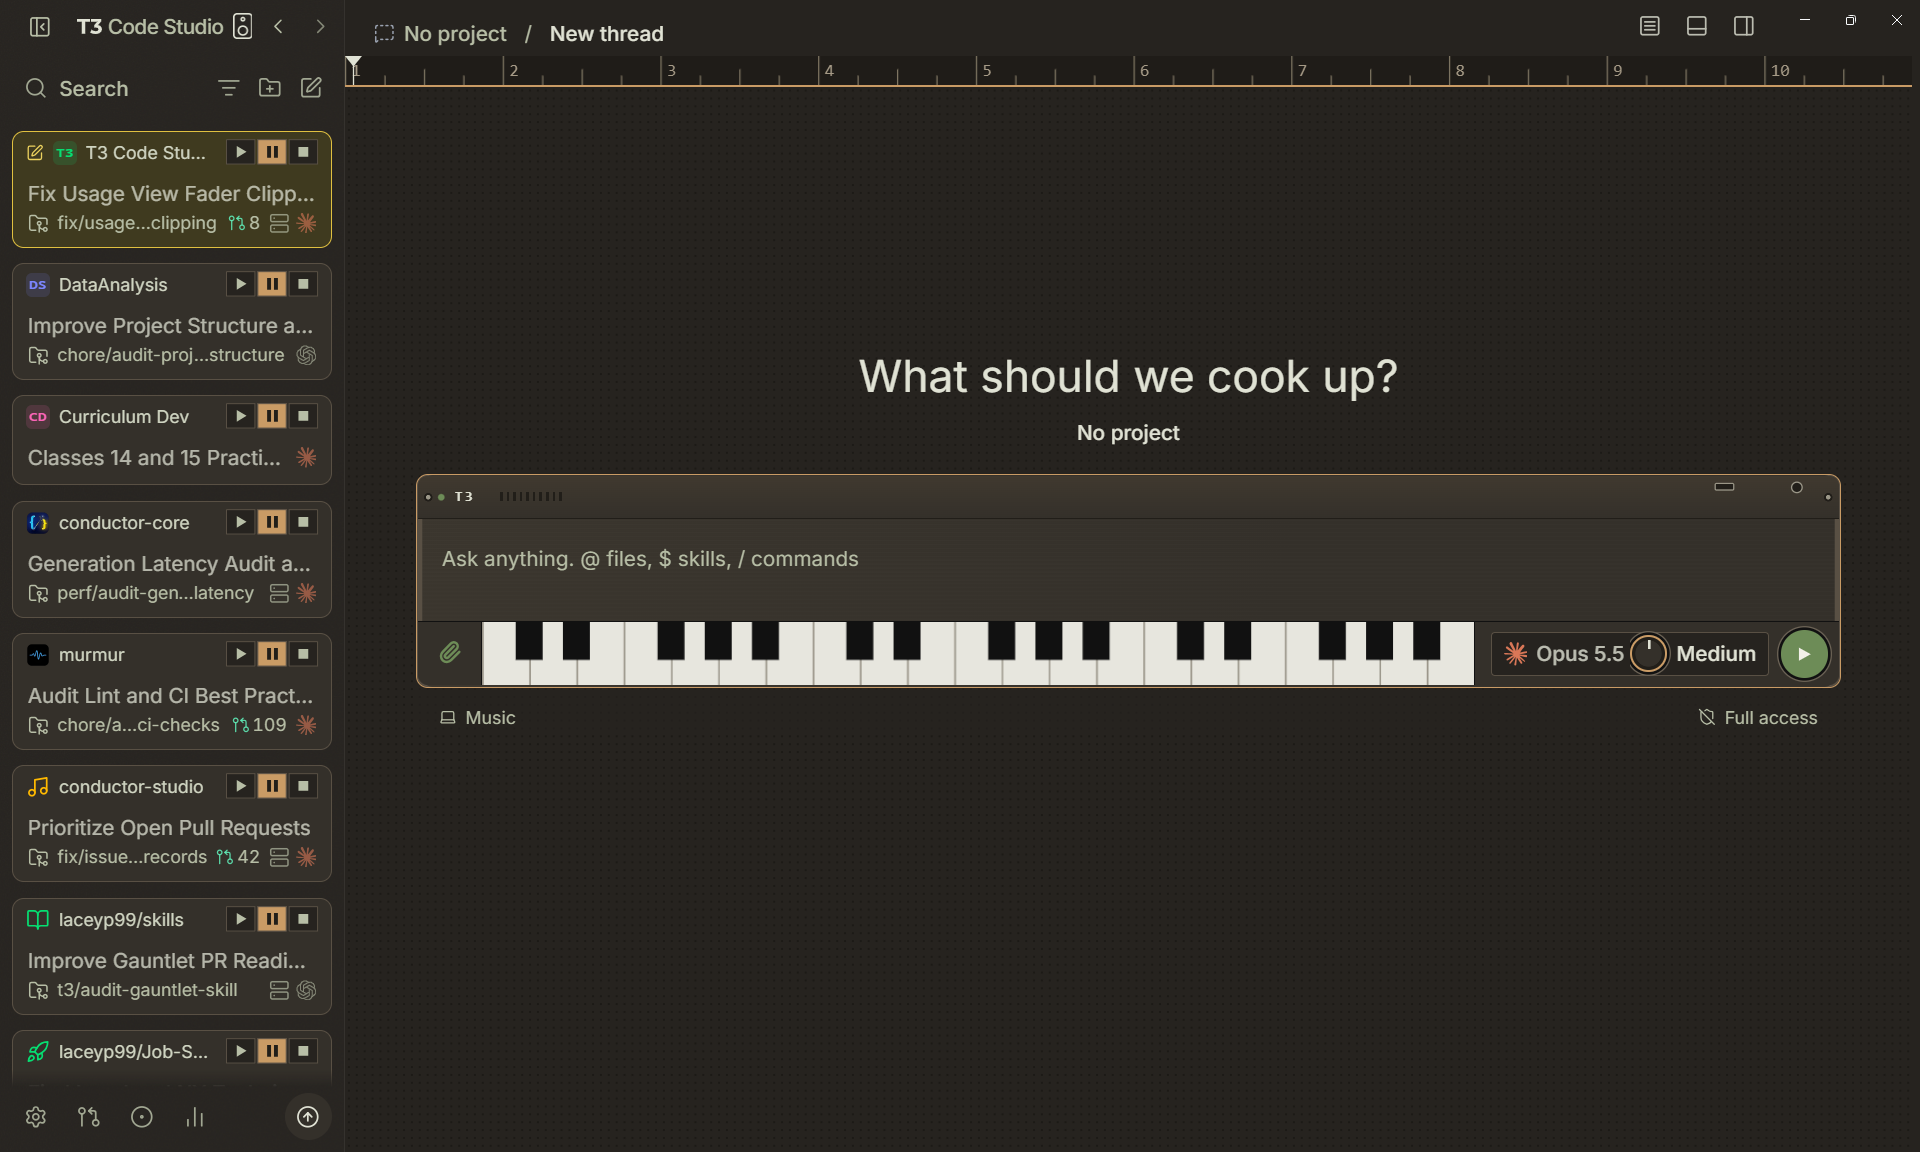
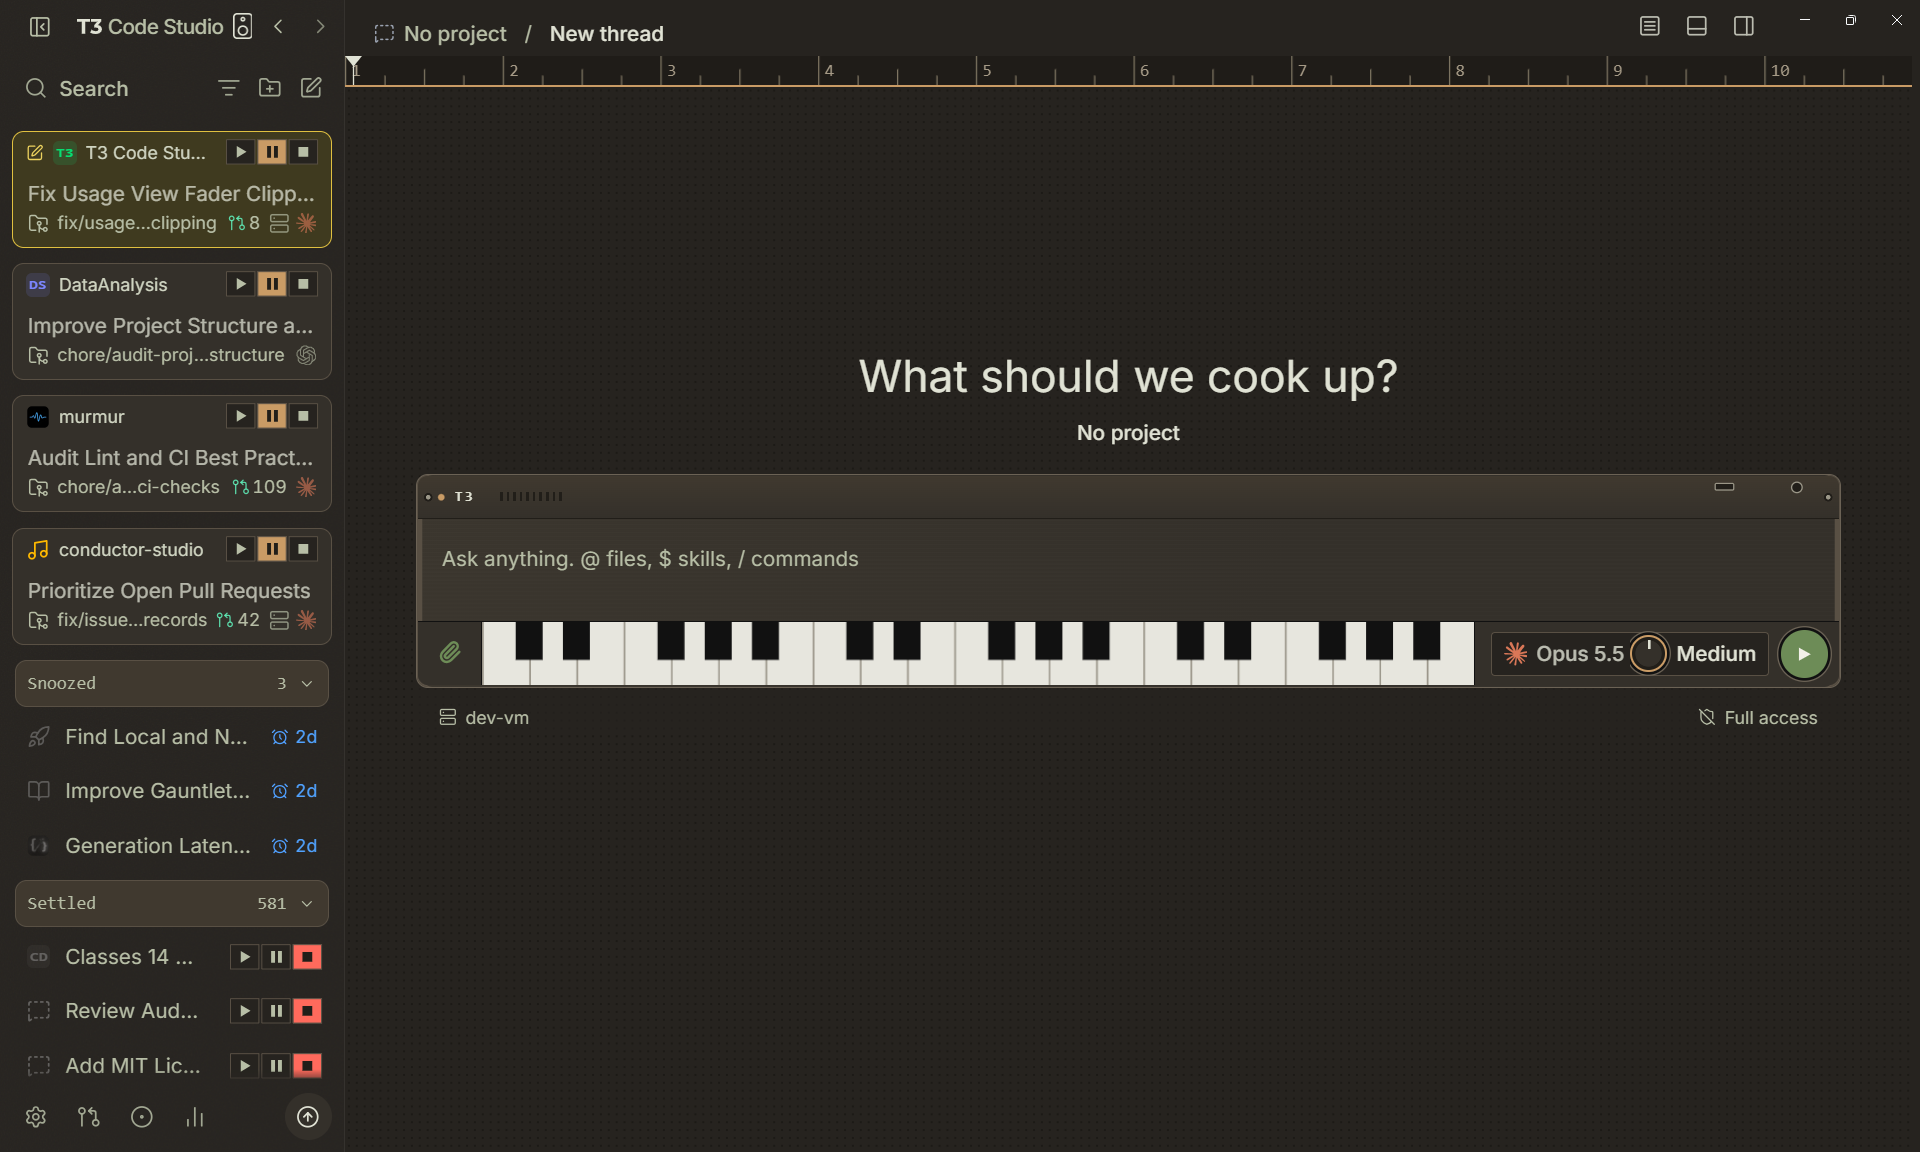
docs: replace the README overview screenshot

Changed region(s): [[0.0, 0.3438, 0.1875, 0.9375], [0.2188, 0.5938, 0.2812, 0.625]]

diff --git a/README.md b/README.md
@@ -2,7 +2,7 @@
 
 A dark, music-studio theme for T3 Code. Tape Room's warm brown panels and brass accents, Subtle Moss text and focus colours, a speaker-grille background, and controls borrowed from a recording desk.
 
-![A new thread with no project selected: the sidebar's thread cards with transport strips, the bar ruler under the header, and the synth-style composer with piano keys](images/overview.png)
+![A new thread with no project selected: thread cards with transport strips, the Snoozed and Settled shelves, the bar ruler under the header, and the synth-style composer with piano keys](images/overview.png)
 
 ## Preview
 
